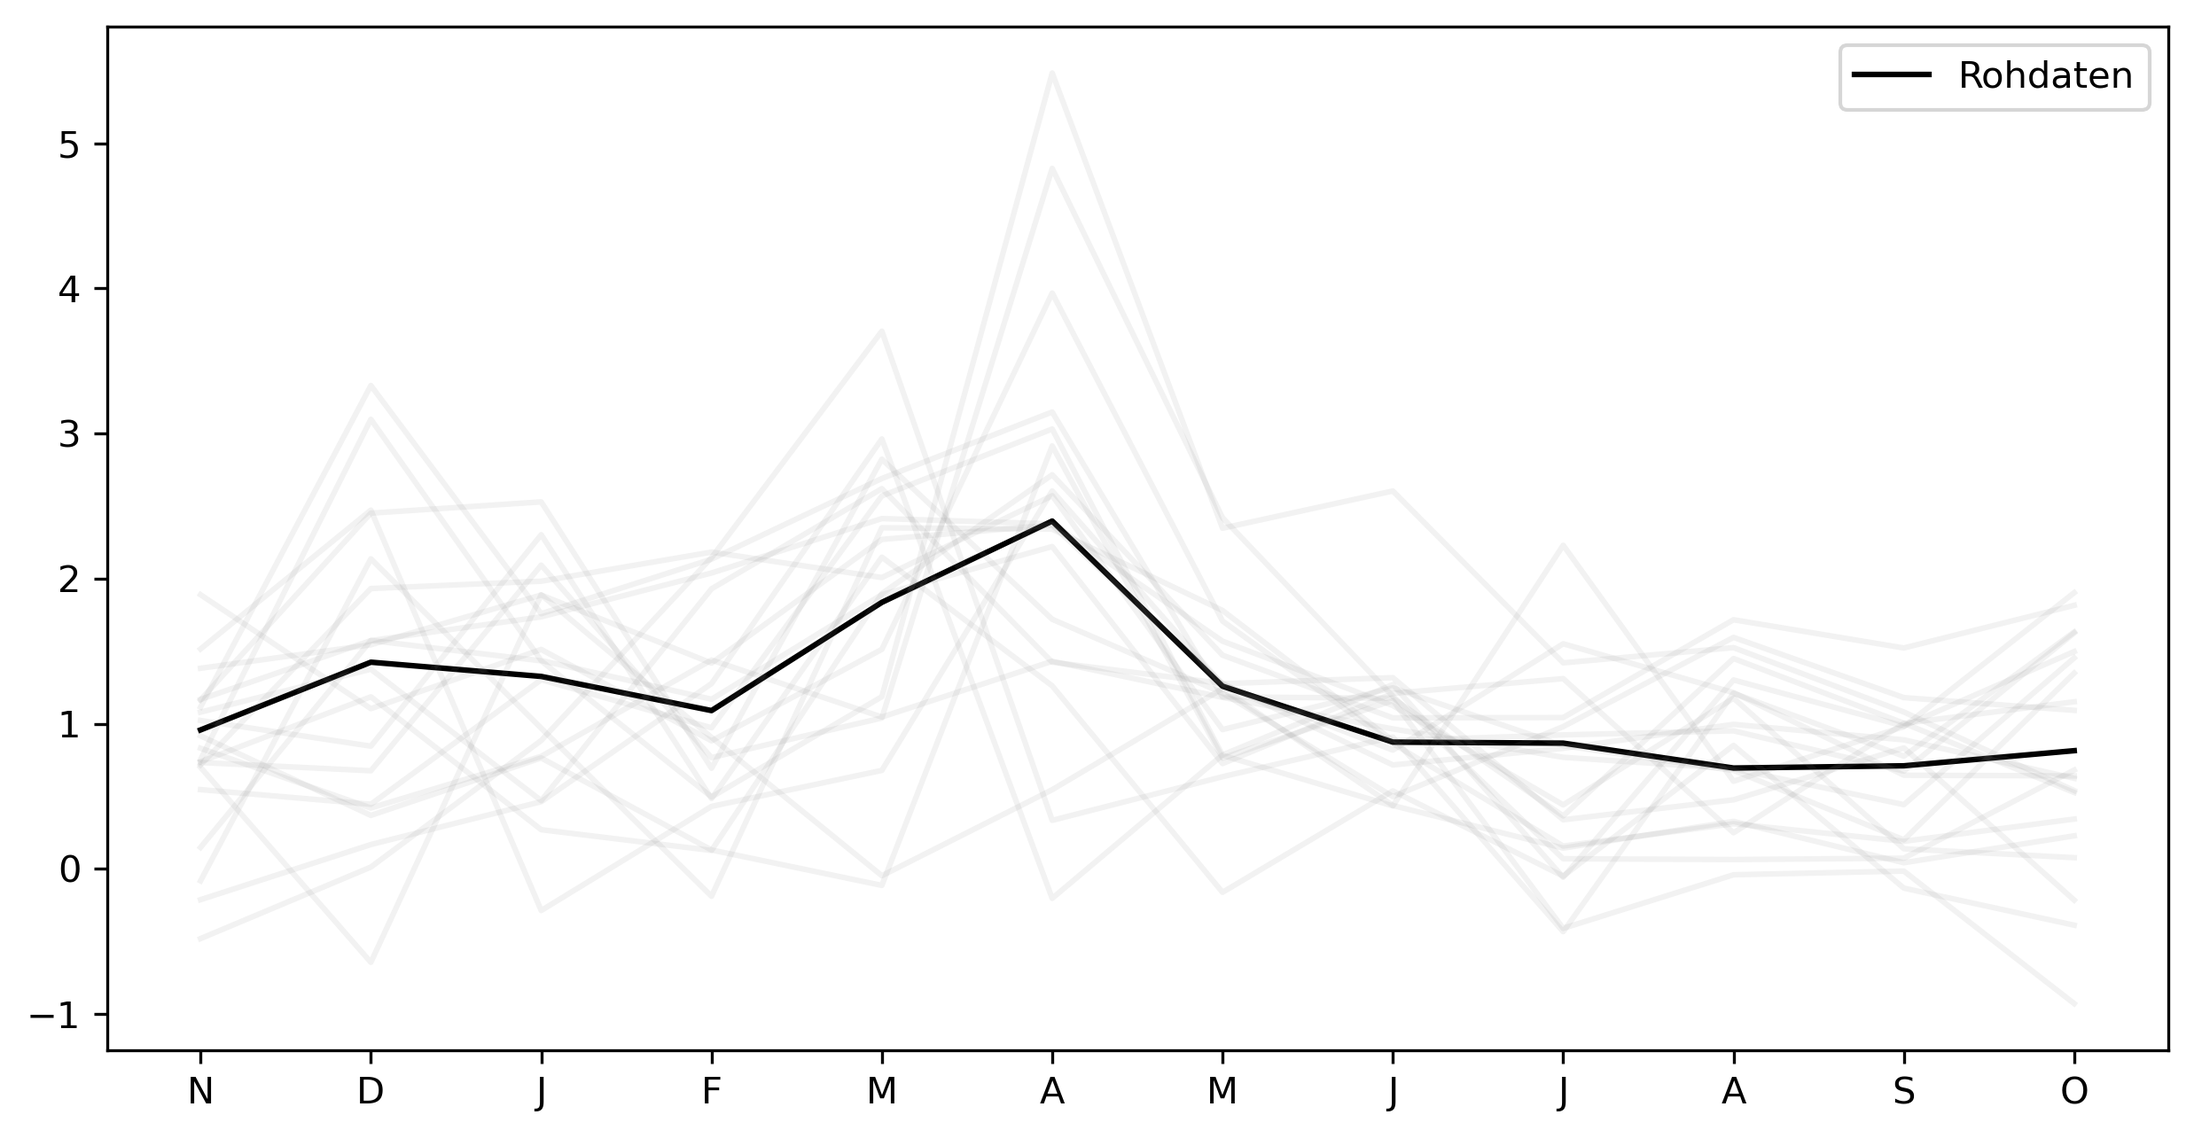
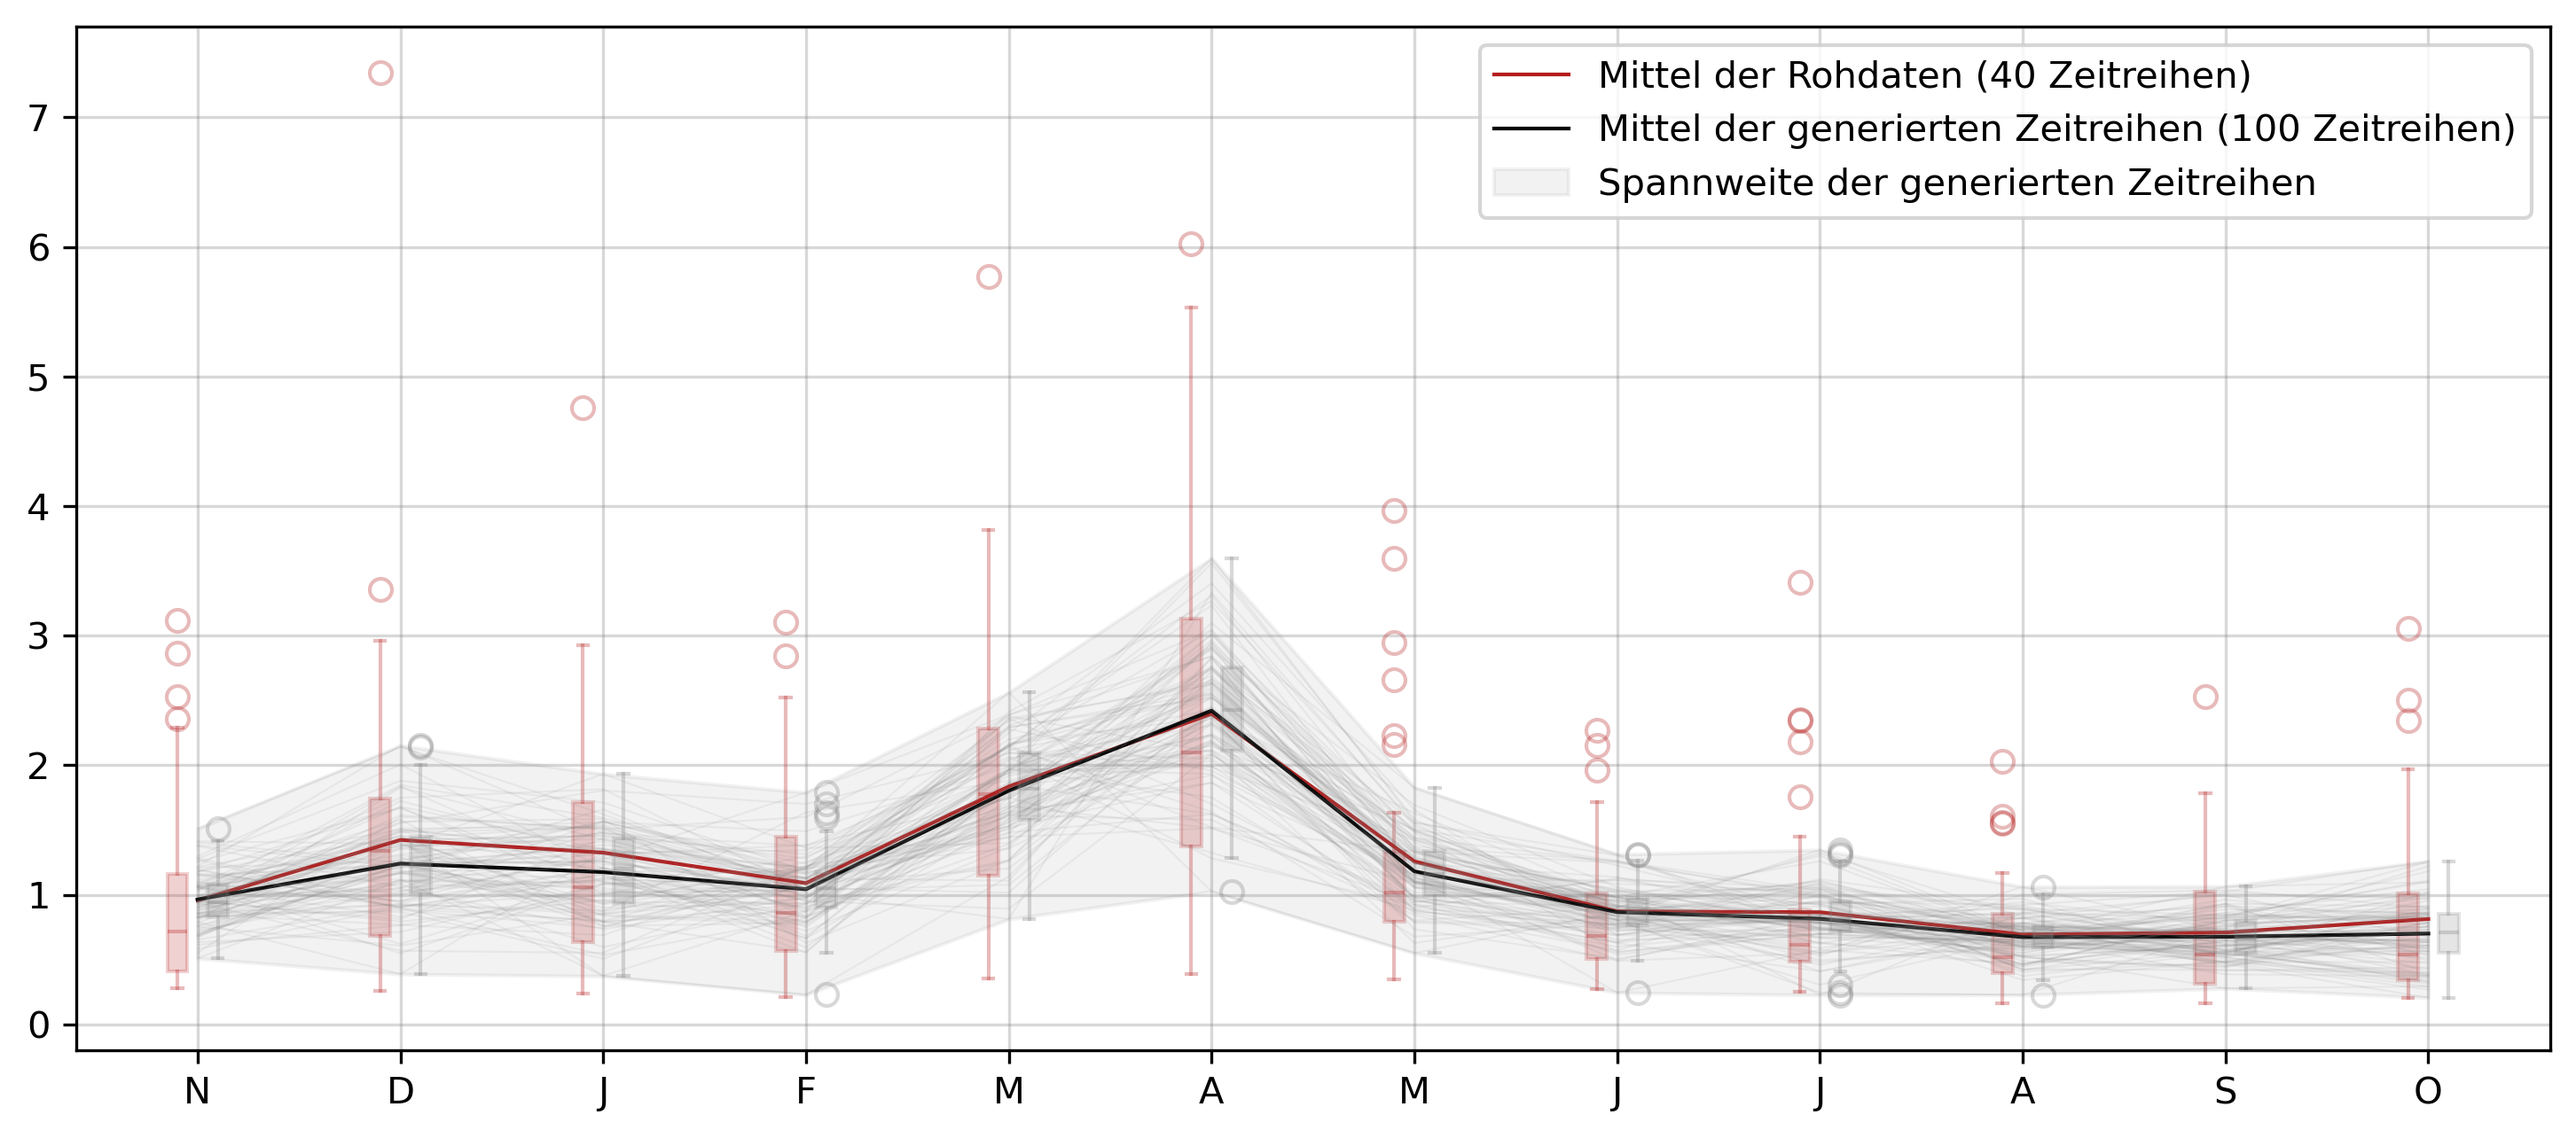
🐛 Fix Thomas Fiering calculation. Plot generated time series.

diff --git a/code/utils/thomasfiering.py b/code/utils/thomasfiering.py
@@ -1,14 +1,10 @@
 import pandas as pd
 import numpy as np
-from scipy.stats import lognorm
+from scipy.stats import skew
 
-from config import T
 from utils.statistics import hyd_years
+from utils.data_structures import _monthly_vals
 
-
-def _monthly_vals(df: pd.DataFrame, i: int)-> np.ndarray:
-    df = df[df["Monat"].str.startswith(str(i).zfill(2))]
-    return df["Durchfluss_m3s"].to_numpy()
 
 def index_month_before(i: int) -> int:
     """Return the index of the month before."""
@@ -54,14 +50,7 @@ def parameter_rp(df: pd.DataFrame, i:int) -> float:
     else:
         raise ValueError("r_p is not in [-1,1] for month", i)
 
-def fit_lognorm(df: pd.DataFrame, i: int) -> tuple[float, float, float]:
-    x = _monthly_vals(df, i)
-    shape, loc, scale = lognorm.fit(x)
-    return shape, loc, scale
-
-def thomasfiering(
-        df: pd.DataFrame
-        ) -> float:
+def thomasfiering(df: pd.DataFrame) -> float:
     """
     Returns a time series with monthly discharge values 
     generated with the Thomas Fiering model.
@@ -80,18 +69,22 @@ def thomasfiering(
         rp = parameter_rp(df, i)
         xp_before = parameter_xp(df, index_month_before(i))
         sp_before = parameter_sp(df, index_month_before(i))
+        rp_before = parameter_rp(df, index_month_before(i))
+        
+        x_new = -1
+        while x_new <= 0.1:
+            ti = np.random.normal(loc=0, scale=1, size=1)[0] # random value from normal distr.
+            csi = skew(_monthly_vals(df, i), bias=False) # sample skewness
+            cti = (csi - rp_before**3*csi - 1) / ((1 - rp**2))**(3/2)
+            tg = 2/cti * (1 + (cti*ti)/6 - cti**2/36) - 2/cti # random value from gamma distr.
 
-        # TODO: random number from log-normal distribution        
-        # shape, loc, scale = fit_lognorm(df, i)
-        # ti = lognorm.rvs(s=shape, loc=loc, scale=scale, size=1, random_state=None)[0]
+            term1 = xp # mean term
+            term2 = (rp * sp/sp_before) * (value_month_before - xp_before) # middle term
+            term3 = tg*sp*np.sqrt(1-rp**2) # random term
+            x_new = term1 + term2 + term3
         
-        # TODO: get random value of normal distribution
-        ti = np.random.normal(0, 1, 1)[0]
-        
-        term1 = xp
-        term2 = (rp * sp/sp_before) * (value_month_before - xp_before)
-        term3 = ti*sp*np.sqrt(1-rp**2)
-        x_new = term1 + term2 + term3
+        if x_new <= 0:
+            raise ValueError("Negative value generated!")
         
         new_time_series.append(x_new)
 

diff --git a/code/utils/plotting.py b/code/utils/plotting.py
@@ -435,12 +435,41 @@ def plot_monthly_fitting(df: pd.DataFrame) -> None:
     axs[0, 0].legend()
     plt.savefig(f"{image_path}/{pegelname}_fit.png", dpi=300, bbox_inches="tight")
 
-    y_true = st.binned_stats(df, var="Durchfluss_m3s", bin="monthly", func=np.mean)
-    plt.plot(x, y_true, label="Rohdaten", color="k")
-    
-    for _ in range(n):
-        plt.plot(x, thomasfiering(df), color="grey", alpha=0.1)
+def plot_thomasfiering(df: pd.DataFrame, gen_data: np.array, n: int = 10) -> None:
+    """Plot the generated data from the Thomas Fiering model."""
 
+    x = np.arange(0, 12)
+    arr = np.reshape(df["Durchfluss_m3s"].to_numpy(), (-1, 12))
+    
+    plt.figure(figsize=(12, 5))
+    
+    # raw data
+    plt.plot(x, np.mean(arr, axis=0), color=tu_red, alpha=1, lw=1, 
+             label=f"Mittel der Rohdaten (40 Zeitreihen)")
+    # for row_i in range(len(arr)):
+    #     plt.plot(x, arr[row_i], color=tu_red, alpha=0.3, lw=0.5)
+    plt.boxplot(arr, positions=x-0.1, widths=0.1, patch_artist=True,
+                boxprops=dict(facecolor=tu_red, color=tu_red, alpha=0.2),
+                capprops=dict(color=tu_red, alpha=0.3),
+                whiskerprops=dict(color=tu_red, alpha=0.3),
+                flierprops=dict(color=tu_red, alpha=0.3, markeredgecolor=tu_red),
+                medianprops=dict(color=tu_red, alpha=0.3))
+    
+    # generated data
+    plt.plot(x, np.mean(gen_data, axis=0), color="k", alpha=1, lw=1, 
+             label=f"Mittel der generierten Zeitreihen ({len(gen_data)} Zeitreihen)")
+    for i in range(min(len(gen_data), n)):
+        plt.plot(x, gen_data[i], color="grey", alpha=0.1, lw=0.5)
+    plt.fill_between(x, np.min(gen_data, axis=0), np.max(gen_data, axis=0), 
+            color="grey", alpha=0.1, label="Spannweite der generierten Zeitreihen")
+    plt.boxplot(gen_data, positions=x+0.1, widths=0.1, patch_artist=True,
+                boxprops=dict(facecolor="grey", color="grey", alpha=0.2),
+                capprops=dict(color="grey", alpha=0.3),
+                whiskerprops=dict(color="grey", alpha=0.3),
+                flierprops=dict(color="grey", alpha=0.3, markeredgecolor="grey"),
+                medianprops=dict(color="grey", alpha=0.3))
+    
+    plt.grid(color="grey", alpha=0.3)
     x_labels = ["N", "D", "J", "F", "M", "A", "M", "J", "J", "A", "S", "O"]
     plt.xticks(x, x_labels)
     plt.legend()

diff --git a/data/Klingenthal_thomasfiering_timeseries_first10.tex b/data/Klingenthal_thomasfiering_timeseries_first10.tex
@@ -1,0 +1,16 @@
+\begin{tabular}{lrrrrrrrrrrrr}
+\toprule
+{} &     11 &     12 &     1  &     2  &     3  &     4  &     5  &     6  &     7  &     8  &     9  &     10 \\
+\midrule
+1  &  1.210 &  1.261 &  1.564 &  1.194 &  2.148 &  3.037 &  1.093 &  0.920 &  0.730 &  0.632 &  0.747 &  1.221 \\
+2  &  0.985 &  1.048 &  0.735 &  0.979 &  1.973 &  1.933 &  0.794 &  0.775 &  0.551 &  0.707 &  0.827 &  1.257 \\
+3  &  1.179 &  1.447 &  0.873 &  1.636 &  1.881 &  2.235 &  1.304 &  0.692 &  0.847 &  0.406 &  0.479 &  0.483 \\
+4  &  1.164 &  1.006 &  1.294 &  0.885 &  1.788 &  2.581 &  1.243 &  0.951 &  0.846 &  0.755 &  0.609 &  0.325 \\
+5  &  0.913 &  1.167 &  0.932 &  1.253 &  1.750 &  2.904 &  1.175 &  0.493 &  0.845 &  0.895 &  0.842 &  0.802 \\
+6  &  0.854 &  1.166 &  1.034 &  0.908 &  1.260 &  2.396 &  1.433 &  1.014 &  0.626 &  0.529 &  0.604 &  0.714 \\
+7  &  1.000 &  1.032 &  1.116 &  1.087 &  1.940 &  2.111 &  1.104 &  0.807 &  0.943 &  0.752 &  0.738 &  1.005 \\
+8  &  0.778 &  1.483 &  1.517 &  0.834 &  1.393 &  2.634 &  1.169 &  0.981 &  1.014 &  0.427 &  0.419 &  0.401 \\
+9  &  0.635 &  0.714 &  1.081 &  1.139 &  1.505 &  2.195 &  0.980 &  0.759 &  1.121 &  0.900 &  0.570 &  0.390 \\
+10 &  0.758 &  1.113 &  1.094 &  1.057 &  1.919 &  2.231 &  0.868 &  0.774 &  0.789 &  0.776 &  0.706 &  0.870 \\
+\bottomrule
+\end{tabular}
